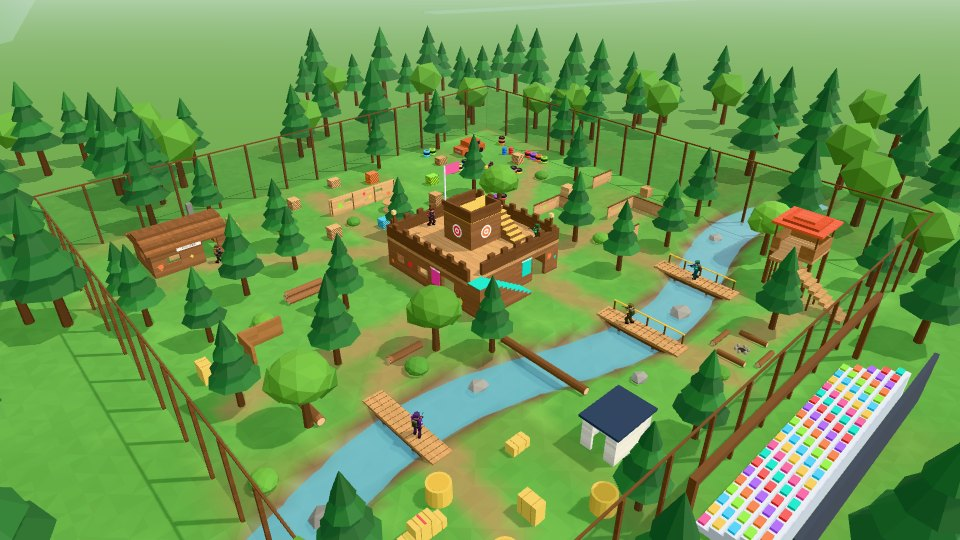
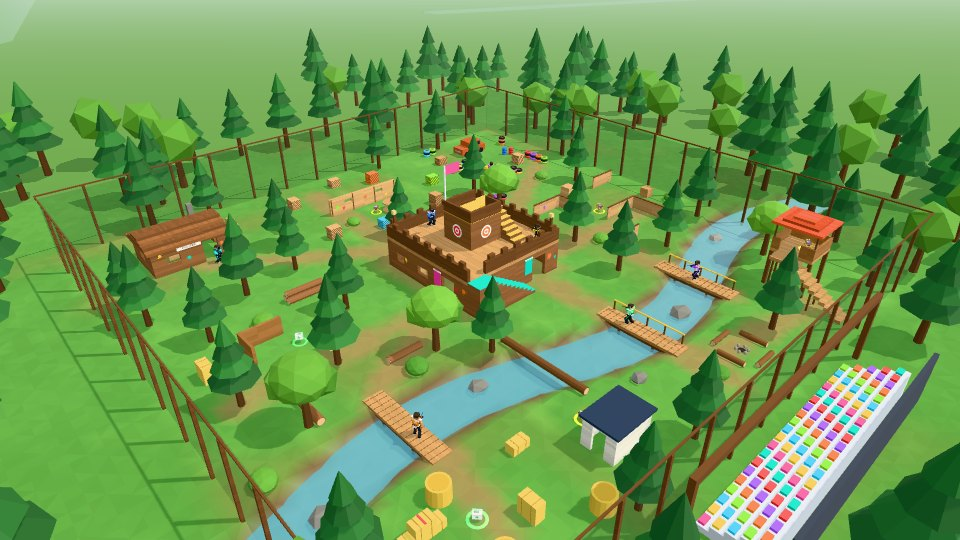
Orman Kalesi: kale merdiven ağzı genişledi (botlar takılmıyordu), toplama kutuları adlı, testler sağlamlaştı

diff --git a/src/maps/ormankale.js b/src/maps/ormankale.js
@@ -106,25 +106,25 @@ function castleSide(b, k, rng) {
   const ops = [{ at: -3.0, w: 1.6, b: 0, top: 2.2 }];                          // kapı
   if (!stair) ops.push({ at: 0.4, w: 1.4, b: 1.0, top: 1.8 }, { at: 3.6, w: 1.0, b: 1.0, top: 1.8 });   // merdivensiz kenarda iki mazgal pencere
   b.wall('x', -KH, KH - KT, z, 0, DECK - 0.3, KT, LOG, ops, { kind: KIND.WOOD });
-  // sur (güverte kenarı, 1,1 m) + mazgal dişleri; merdivenli kenarda x 3,9…5,2 boşluk (merdiven sahanlığından güverteye)
-  const p1 = stair ? 3.9 : KH - KT;
+  // sur (güverte kenarı, 1,1 m) + mazgal dişleri; merdivenli kenarda x 3,5…5,2 boşluk (merdiven sahanlığından güverteye)
+  const p1 = stair ? 3.5 : KH - KT;
   W(b, (-KH + p1) / 2, DECK, z, p1 + KH, 1.1, KT, LOG_D);
   for (let x = -4.75; x < p1 - 0.4; x += 1.5) W(b, x, DECK + 1.1, z, 0.6, 0.45, KT, LOG_D);
   // dış yüzde renkli bayrak (kenar başına bir boya rengi) — duvar yüzüne yapışık, çarpışmasız
   const C = ['#ff7a1a', '#b05cff', '#12c2ad', '#ff4fa3'][k];
-  b.box(-1.4, 0.9, -KH - 0.015, 1.1, 1.6, 0.03, C, NC);
-  b.box(-1.4, 2.36, -KH - 0.02, 1.26, 0.12, 0.04, '#f4f1ea', NC);
-  const holes = [[-3.8, -2.2, 0, 2.2], [-2.03, -0.77, 0.9, 2.48], ...(stair ? [[-0.6, 6, 0, 3]] : [[-0.3, 1.1, 1.0, 1.8], [3.1, 4.1, 1.0, 1.8]])];
+  b.box(-1.65, 0.9, -KH - 0.015, 0.9, 1.6, 0.03, C, NC);
+  b.box(-1.65, 2.36, -KH - 0.02, 1.0, 0.12, 0.04, '#f4f1ea', NC);
+  const holes = [[-3.8, -2.2, 0, 2.2], [-2.15, -1.15, 0.9, 2.48], ...(stair ? [[-1.1, 6, 0, 3]] : [[-0.3, 1.1, 1.0, 1.8], [3.1, 4.1, 1.0, 1.8]])];
   splats(rng, 3, -KH, KH - KT, 0.1, 2.6, holes, (u, y, r, c) => splat(b, rng, u, y, -KH, 'z-', r, c), k * 2);
-  if (stair) {                                                               // dış merdiven: duvara yaslı, +x yönünde 0 → 3 m (9 basamak × 0,3 m + 1,5 m sahanlık)
+  if (stair) {                                                               // dış merdiven: duvara yaslı, +x yönünde 0 → 3 m (9 basamak × 0,3 m + 2 m sahanlık)
     const zc = -KH - 0.75;
     for (let i = 0; i < 9; i++) {
-      const top = (i + 1) * 0.3, cx = -0.5 + i * 0.5 + 0.25;
+      const top = (i + 1) * 0.3, cx = -1.0 + i * 0.5 + 0.25;
       W(b, cx, 0, zc, 0.5, top - 0.05, 1.5, LOG, 'plat');
       b.box(cx, top - 0.05, zc, 0.5, 0.05, 1.5, C, { tag: 'plat' });           // basamak yüzü boyalı (merdiven uzaktan okunur)
     }
-    W(b, 4.75, 0, zc, 1.5, DECK - 0.05, 1.5, LOG, 'plat');
-    b.box(4.75, DECK - 0.05, zc, 1.5, 0.05, 1.5, C, { tag: 'plat' });
+    W(b, 4.5, 0, zc, 2.0, DECK - 0.05, 1.5, LOG, 'plat');
+    b.box(4.5, DECK - 0.05, zc, 2.0, 0.05, 1.5, C, { tag: 'plat' });
   }
 }
 function castle(b, rng) {
@@ -441,6 +441,7 @@ export function buildOrmanKale() {
     { x: 18.8, y: 3.6, z: 21.8, kind: 'ammo' }, { x: -18.4, y: 0, z: 20.8, kind: 'health' },
     { x: 0.0, y: 0, z: -15.6, kind: 'ammo' }, { x: -17.6, y: 0, z: -0.4, kind: 'health' }, { x: 18.0, y: 0, z: 0.6, kind: 'ammo' }, { x: -8.0, y: 0, z: 19.8, kind: 'ammo' },
   ];
+  for (const p of pickupSpots) { let bd = 1e9; for (const c of callouts) { const d = Math.hypot(c.x - p.x, c.z - p.z) - c.r; if (d < bd) { bd = d; p.name = c.name; } } }   // kutu adı: en yakın bölge (pickups.js)
 
   const group = b.build();
   if (typeof document !== 'undefined' && !MapBuilder.noVisual) {
